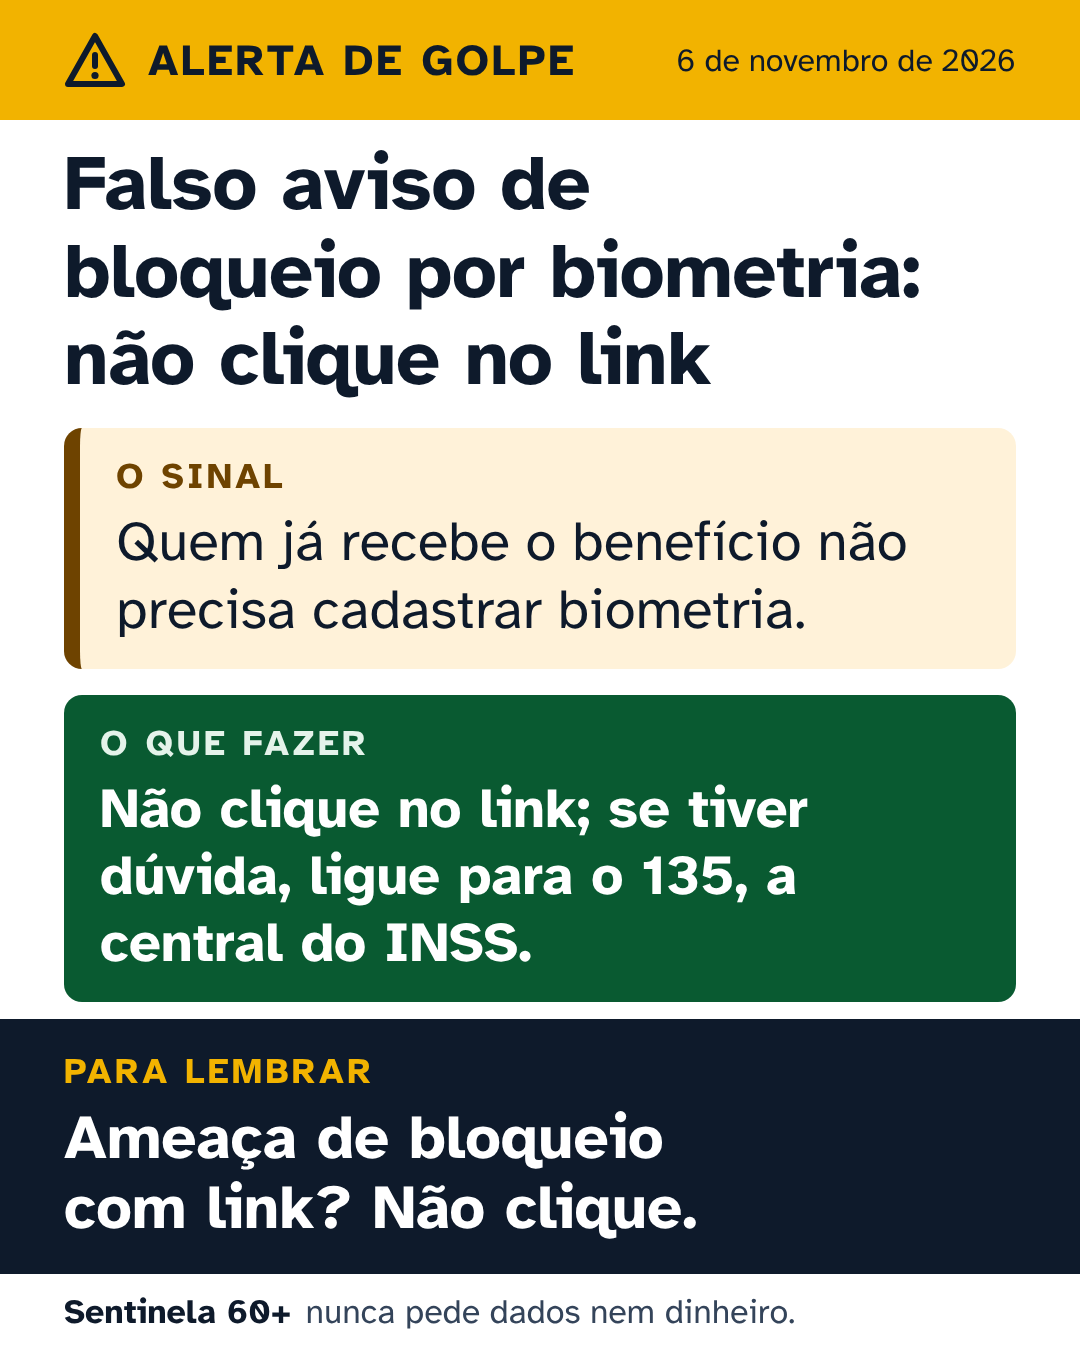
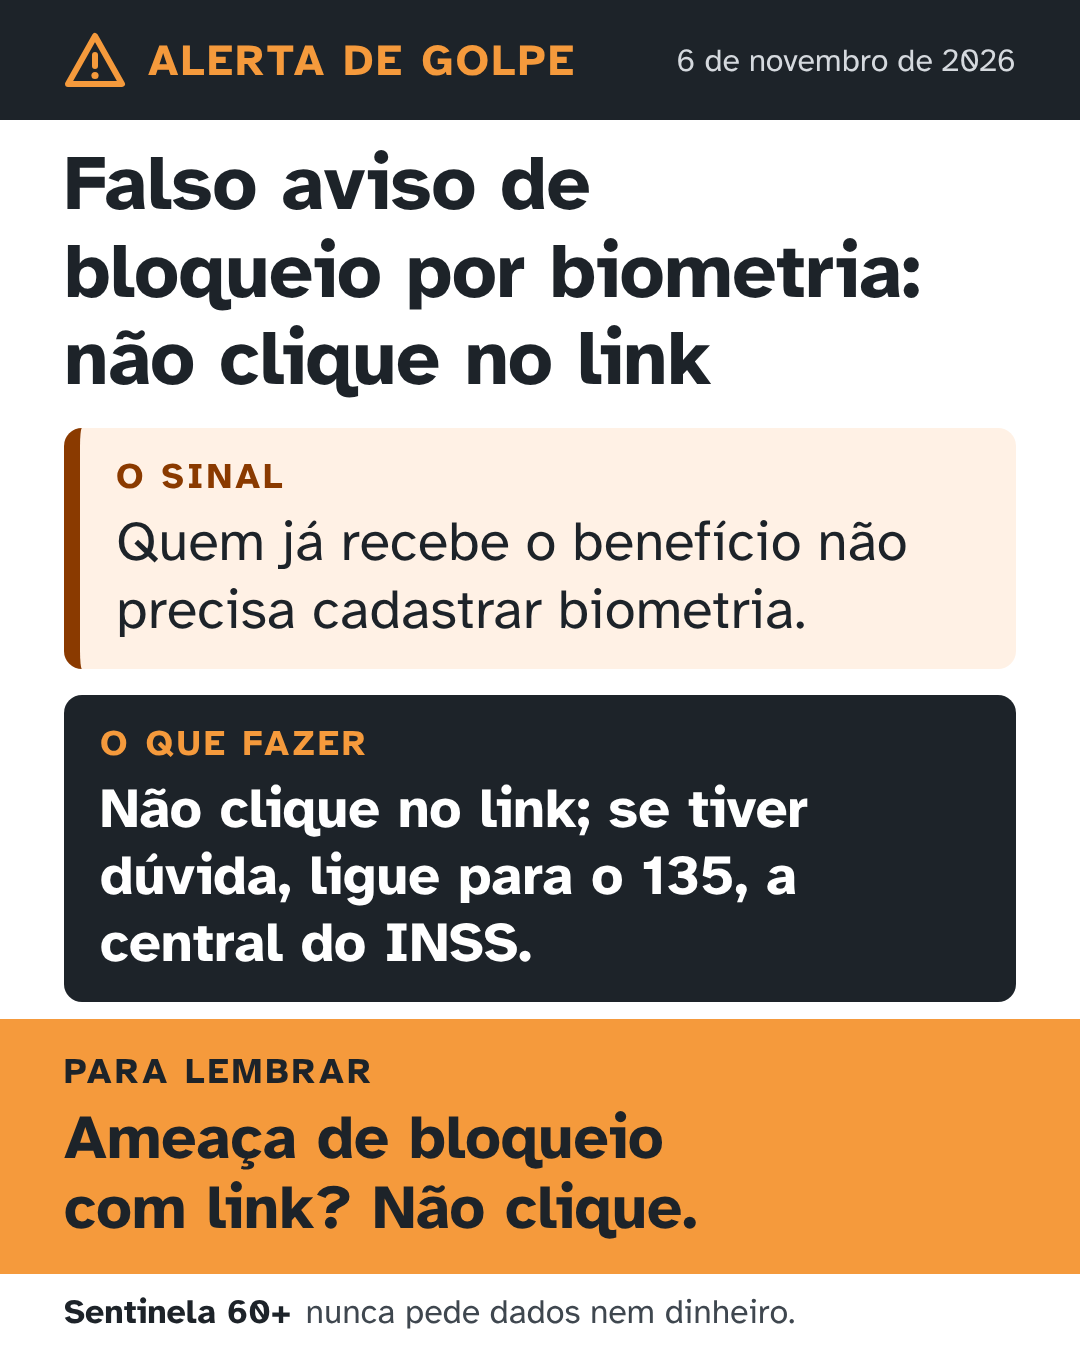
Paleta da imagem: grafite e laranja
A primeira paleta (azul-noite, âmbar e verde) remetia à bandeira.
Tema "calma" passa a ser grafite #1D2329 e laranja #F59A3C sobre branco;
âmbar e petróleo-coral ficam como temas de comparação.

Claude-Session: https://claude.ai/code/session_01J9zH877KEhLNn6v1XEaBeo

diff --git a/02-skill/linguagem-simples-60mais/assets/imagem/modelo-imagem.html b/02-skill/linguagem-simples-60mais/assets/imagem/modelo-imagem.html
@@ -17,25 +17,35 @@
   src: url("fontes/atkinson-hyperlegible-latin-ext-700-normal.woff2") format("woff2");
   unicode-range: U+0100-02AF, U+0304, U+0308, U+0329, U+1E00-1E9F, U+1EF2-1EFF, U+2020, U+20A0-20AB, U+20AD-20C0, U+2113, U+2C60-2C7F, U+A720-A7FF; }
 
-/* Tema "atencao" (padrão): papel branco, tinta azul-noite, âmbar de sinalização como único acento quente. */
-.tema-atencao {
+/* Tema "calma" (padrão): grafite e laranja. Sem verde, sem azul: nada que lembre bandeira ou campanha. */
+.tema-calma {
   --fundo: #FFFFFF;
-  --texto: #0E1A2B;
-  --faixa-fundo: #F2B300; --faixa-texto: #0E1A2B;
-  --sinal-fundo: #FFF2D9; --sinal-borda: #6E4300; --sinal-rotulo: #6E4300; --sinal-texto: #0E1A2B;
-  --acao-fundo: #095A31; --acao-rotulo: #E4F3EA; --acao-texto: #FFFFFF;
-  --lembrar-fundo: #0E1A2B; --lembrar-rotulo: #F2B300; --lembrar-texto: #FFFFFF;
-  --rodape: #34445A;
+  --texto: #1D2329;
+  --faixa-fundo: #1D2329; --faixa-texto: #F59A3C; --faixa-data: #D5D9DE;
+  --sinal-fundo: #FFF1E5; --sinal-borda: #8A3A00; --sinal-rotulo: #8A3A00; --sinal-texto: #1D2329;
+  --acao-fundo: #1D2329; --acao-rotulo: #F59A3C; --acao-texto: #FFFFFF;
+  --lembrar-fundo: #F59A3C; --lembrar-rotulo: #1D2329; --lembrar-texto: #1D2329;
+  --rodape: #3F474F;
 }
-/* Tema "institucional": fundo azul-noite. Só para comparação. */
-.tema-institucional {
-  --fundo: #0E1A2B;
-  --texto: #FFFFFF;
-  --faixa-fundo: #0E1A2B; --faixa-texto: #F2B300;
-  --sinal-fundo: #1C2B40; --sinal-borda: #F2B300; --sinal-rotulo: #F2B300; --sinal-texto: #FFFFFF;
-  --acao-fundo: #FFFFFF; --acao-rotulo: #095A31; --acao-texto: #0E1A2B;
-  --lembrar-fundo: #F2B300; --lembrar-rotulo: #0E1A2B; --lembrar-texto: #0E1A2B;
-  --rodape: #C9D3DF;
+/* Tema "ambar": grafite e âmbar de sinalização. Só para comparação. */
+.tema-ambar {
+  --fundo: #FFFFFF;
+  --texto: #1D2329;
+  --faixa-fundo: #1D2329; --faixa-texto: #F2B300; --faixa-data: #D5D9DE;
+  --sinal-fundo: #FFF6D6; --sinal-borda: #6E4300; --sinal-rotulo: #6E4300; --sinal-texto: #1D2329;
+  --acao-fundo: #1D2329; --acao-rotulo: #F2B300; --acao-texto: #FFFFFF;
+  --lembrar-fundo: #F2B300; --lembrar-rotulo: #1D2329; --lembrar-texto: #1D2329;
+  --rodape: #3F474F;
+}
+/* Tema "petroleo": azul-petróleo e coral. Só para comparação. */
+.tema-petroleo {
+  --fundo: #FFFFFF;
+  --texto: #0F3D44;
+  --faixa-fundo: #0F3D44; --faixa-texto: #FFC2B0; --faixa-data: #D3E2E4;
+  --sinal-fundo: #FDEEEA; --sinal-borda: #8A321F; --sinal-rotulo: #8A321F; --sinal-texto: #0F3D44;
+  --acao-fundo: #0F3D44; --acao-rotulo: #FFC2B0; --acao-texto: #FFFFFF;
+  --lembrar-fundo: #FAD4C8; --lembrar-rotulo: #8A321F; --lembrar-texto: #0F3D44;
+  --rodape: #3F474F;
 }
 /* Tema "alarme": vermelho de urgência. Anti-exemplo, só para comparação. */
 .tema-alarme {
@@ -45,6 +55,7 @@
   --sinal-fundo: #FFFFFF; --sinal-borda: #D7141A; --sinal-rotulo: #D7141A; --sinal-texto: #111111;
   --acao-fundo: #D7141A; --acao-rotulo: #FFFFFF; --acao-texto: #FFFFFF;
   --lembrar-fundo: #111111; --lembrar-rotulo: #FFD400; --lembrar-texto: #FFFFFF;
+  --faixa-data: #FFFFFF;
   --rodape: #555555;
 }
 
@@ -63,11 +74,10 @@ body { font-family: "Atkinson Hyperlegible", Verdana, sans-serif; -webkit-font-s
   display: flex; align-items: center; justify-content: space-between;
   padding: 0 64px; height: 120px; flex: none;
 }
-.tema-institucional .faixa { border-bottom: 8px solid #F2B300; }
 .faixa .marca { display: flex; align-items: center; gap: 22px;
   font-weight: 700; font-size: 44px; letter-spacing: 0.06em; text-transform: uppercase; }
 .faixa svg { width: 62px; height: 56px; flex: none; }
-.faixa .data { font-size: 32px; font-weight: 400; }
+.faixa .data { font-size: 32px; font-weight: 400; color: var(--faixa-data); }
 
 .corpo { flex: 1; display: flex; flex-direction: column; justify-content: center; gap: calc(26px * var(--escala));
   padding: calc(40px * var(--escala)) 64px calc(36px * var(--escala)); min-height: 0; }
@@ -95,7 +105,7 @@ body { font-family: "Atkinson Hyperlegible", Verdana, sans-serif; -webkit-font-s
 </style>
 </head>
 <body>
-<div class="quadro tema-atencao" id="quadro">
+<div class="quadro tema-calma" id="quadro">
   <header class="faixa">
     <span class="marca">
       <svg viewBox="0 0 62 56" aria-hidden="true">
@@ -122,7 +132,7 @@ function preencher(a) {
   var p = (a.publicado_em || "").split("-");
   var data = p.length === 3 ? (+p[2]) + " de " + meses[+p[1] - 1] + " de " + p[0] : "";
   var q = document.getElementById("quadro");
-  q.className = "quadro tema-" + (a.tema || "atencao");
+  q.className = "quadro tema-" + (a.tema || "calma");
   document.getElementById("data").textContent = data;
   document.getElementById("titulo").textContent = a.titulo;
   document.getElementById("sinal").textContent = a.sinal;

diff --git a/02-skill/linguagem-simples-60mais/scripts/gerar_imagem.py b/02-skill/linguagem-simples-60mais/scripts/gerar_imagem.py
@@ -26,7 +26,7 @@ FONTE_MINIMA = {"#titulo": 68, "#sinal": 48, "#acao": 48, "#lembrar": 54}
 CONTRASTE_TEXTO = 7.0                # nível AAA da WCAG para texto
 CONTRASTE_ROTULO = 4.5               # rótulos e rodapé, em letra grande ou secundária
 PREFIXOS_SERVICO = ("0800", "0300", "3003", "4004", "4020")
-TEMAS_PERMITIDOS = {"atencao"}       # "institucional" e "alarme" existem só para comparação
+TEMAS_PERMITIDOS = {"calma"}         # "ambar", "petroleo" e "alarme" existem só para comparação
 
 RE_URL = re.compile(r"(https?://|www\.|\b[\w-]+\.(com|br|org|net|gov|app|io|info|site|online)\b)", re.I)
 RE_ARROBA = re.compile(r"@\w")
@@ -142,13 +142,14 @@ def renderizar(a, tema, saida, erros, avisos):
         cores = pagina.evaluate("""() => {
             const s = getComputedStyle(document.getElementById('quadro'));
             const v = n => s.getPropertyValue('--' + n).trim();
-            return Object.fromEntries(['fundo','texto','faixa-fundo','faixa-texto','sinal-fundo','sinal-rotulo',
+            return Object.fromEntries(['fundo','texto','faixa-fundo','faixa-texto','faixa-data','sinal-fundo','sinal-rotulo',
               'sinal-texto','acao-fundo','acao-rotulo','acao-texto','lembrar-fundo','lembrar-rotulo',
               'lembrar-texto','rodape'].map(n => [n, v(n)]));
         }""")
         pares = [
             ("título", "texto", "fundo", CONTRASTE_TEXTO),
             ("faixa", "faixa-texto", "faixa-fundo", CONTRASTE_TEXTO),
+            ("data da faixa", "faixa-data", "faixa-fundo", CONTRASTE_ROTULO),
             ("sinal", "sinal-texto", "sinal-fundo", CONTRASTE_TEXTO),
             ("ação", "acao-texto", "acao-fundo", CONTRASTE_TEXTO),
             ("para lembrar", "lembrar-texto", "lembrar-fundo", CONTRASTE_TEXTO),
@@ -176,7 +177,7 @@ def main():
     ap.add_argument("--id", help="id do alerta em dados.json")
     ap.add_argument("--alerta", help="arquivo JSON com um alerta (alternativa a --dados e --id)")
     ap.add_argument("--saida", help="caminho do PNG a gravar; sem ele, só confere")
-    ap.add_argument("--tema", default="atencao", help="atencao (padrão); institucional e alarme só para comparação")
+    ap.add_argument("--tema", default="calma", help="calma (padrão); ambar, petroleo e alarme só para comparação")
     args = ap.parse_args()
 
     if args.alerta:
@@ -195,7 +196,7 @@ def main():
 
     erros, avisos = [], []
     if args.tema not in TEMAS_PERMITIDOS:
-        avisos.append(f"tema {args.tema} serve só para comparação; a publicação usa o tema atencao")
+        avisos.append(f"tema {args.tema} serve só para comparação; a publicação usa o tema calma")
     checar_texto(alerta, erros, avisos)
     medidas = {}
     if not erros:

diff --git a/01-pitch/escopo-e-decisoes.md b/01-pitch/escopo-e-decisoes.md
@@ -27,7 +27,7 @@ Pitch editável: https://claude.ai/artifact/Ar6XfmaFShFphuWGdWwcKB
 - Regras do agente aprendidas na execução de 06/11: veículos do mesmo grupo contam como uma fonte; fonte com interesse comercial no tema não conta; sem orientação de proteção confirmada, não há alerta.
 - Mapa de fontes (06/11), validado com as próprias ferramentas do agente: três papéis (sinal, confirmação, apoio); um dos dois confirmadores tem de ser primário (órgão público, polícia, Procon ou Febraban); agências de checagem só indicam; cada fonte leva o campo `origem` e cada candidato registra `indicado_por`. Busca por pacotes de até 7 domínios, com rodízio regional diário. A validação mostrou que Estadão, UOL, BBC e globo.com são recusados pela ferramenta de busca, que g1, O Globo e Folha não devolvem resultado, e que 11 das 27 polícias civis bloqueiam a abertura de página. Detalhes em `03-agente/fontes.md`.
 - Bancos e ferramentas públicas no mapa de fontes (06/11): Febraban, Caixa, Itaú, Banco do Brasil, Nubank, Inter, Bradesco e Santander entram como fonte primária, mas o setor bancário inteiro vale como uma fonte só, e a ação de proteção nunca é recurso, seguro ou produto de um banco (todas as páginas de banco testadas, menos a da Caixa, promovem produto próprio; nenhuma menciona a Súmula 479 do STJ). BC Protege+, Registrato, Proteção do CPF, Celular Seguro e Qual Empresa Me Ligou entram como ferramentas para "o que fazer", só quando uma fonte as recomenda. Serasa AntiFraude (pago) e Detector de Site Confiável (privado) ficam de fora.
-- Imagem do alerta (07/11): todo alerta publicado ganha uma imagem de 1080 x 1350 para WhatsApp e status, gerada e conferida por `gerar_imagem.py` (limite de palavras, sem link, perfil, emoji ou telefone pessoal; letra mínima; contraste 7:1). Paleta "atenção calma": branco, azul-noite #0E1A2B, âmbar #F2B300 e verde #095A31; vermelho de alarme descartado por ser a estética do próprio golpe e por ficar em 5,2:1. Fonte Atkinson Hyperlegible (Braille Institute, licença OFL), embutida na skill. Instagram fica como possibilidade futura, voltado a quem cuida; a distribuição principal continua o WhatsApp.
+- Imagem do alerta (07/11): todo alerta publicado ganha uma imagem de 1080 x 1350 para WhatsApp e status, gerada e conferida por `gerar_imagem.py` (limite de palavras, sem link, perfil, emoji ou telefone pessoal; letra mínima; contraste 7:1). Paleta "calma": grafite #1D2329 e laranja #F59A3C sobre branco. A primeira versão (azul-noite, âmbar e verde) foi trocada no mesmo dia por remeter à bandeira; vermelho de alarme descartado por ser a estética do próprio golpe e por ficar em 5,2:1. Fonte Atkinson Hyperlegible (Braille Institute, licença OFL), embutida na skill. Instagram fica como possibilidade futura, voltado a quem cuida; a distribuição principal continua o WhatsApp.
 
 
 ## Arquitetura

diff --git a/02-skill/linguagem-simples-60mais/SKILL.md b/02-skill/linguagem-simples-60mais/SKILL.md
@@ -125,8 +125,9 @@ lembrar, com a data de publicação. Gere com `python scripts/gerar_imagem.py --
   Número só o do canal oficial que está nas fontes.
 - **Letra grande.** Fonte Atkinson Hyperlegible, criada pelo Braille Institute para leitores com baixa visão.
   Corpo de 56 pixels na imagem: perto de 20 pixels de tela quando a imagem ocupa a largura do celular.
-- **Urgência calma.** Branco, azul-noite e o âmbar da sinalização de atenção. Vermelho, "URGENTE" e contagem
-  regressiva ficam de fora: são a estética do próprio golpe.
+- **Urgência calma.** Duas cores sobre o branco: grafite, para o tom sério, e laranja, para a atenção. Vermelho,
+  "URGENTE" e contagem regressiva ficam de fora: são a estética do próprio golpe. Verde com amarelo também fica de
+  fora, para o alerta não ser lido como bandeira ou campanha.
 - **Contraste alto.** Todo texto principal com contraste de 7:1 ou mais (nível AAA da WCAG). A visão de cores
   muda com a idade, sobretudo entre azuis e amarelos claros, por isso a imagem separa as partes pela claridade
   e pelos rótulos escritos, não só pela cor.
